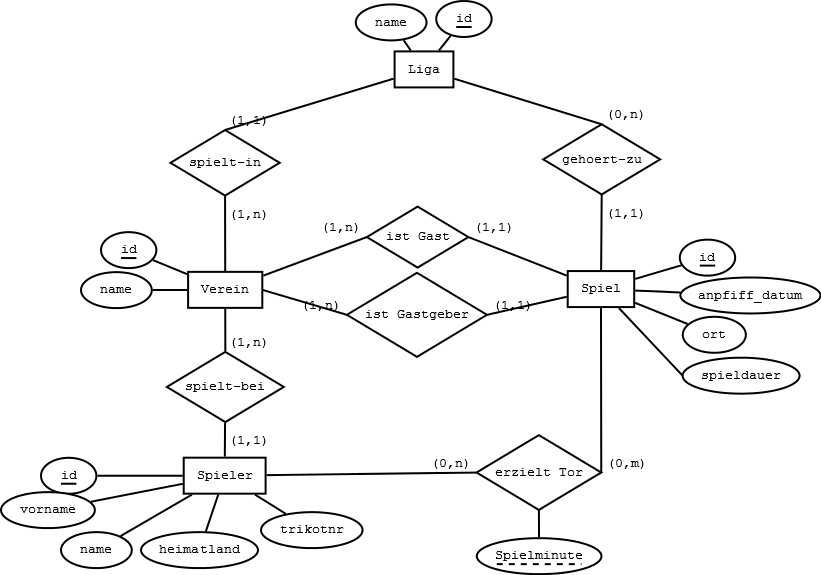
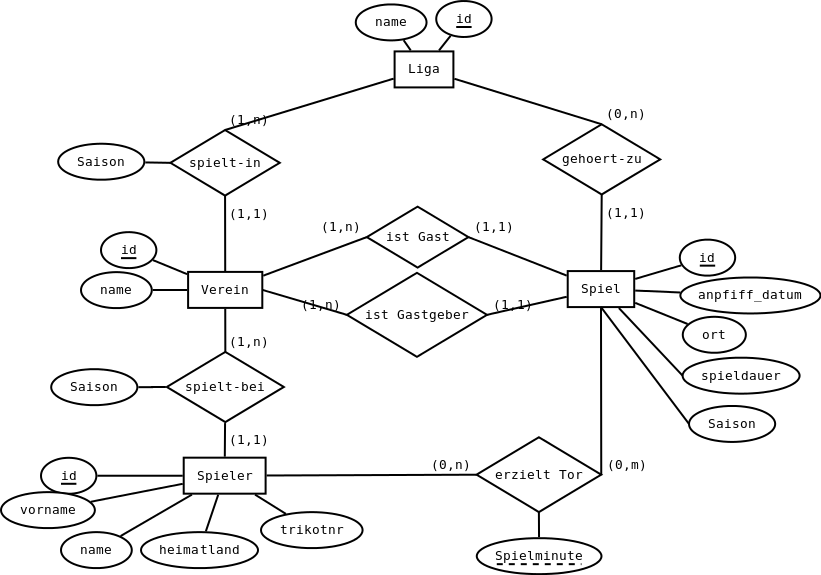
Saison added + relational model created

diff --git a/docs/Relationales_Modell.md b/docs/Relationales_Modell.md
@@ -1,0 +1,36 @@
+#Relationales Modell
+
+Im Folgenden sowohl das vollständige Relationale Modell als auch eine vereinfachte Version zu dem ER-Diagramm.
+
+Entgegen der üblichen Notation mussten wir hier auf das Kennzeichnen der Schlüssel durch Unterstreichen verzichten, stattdessen sind Schlüssel **fett** dargestellt. Fremdschlüssel werden zur Verdeutlichung *kursiv* dargestellt.
+
+##Vollständig
+
+###Entitäten
+* Verein: {[**id**, name]}
+* Spieler: {[**id**, vorname, name, heimatland, trikotnr]}
+* Spiel: {[**id**, anpfiff_datum, ort, spieldauer, saison]}
+* Liga: {[**id**, name]}
+
+###Relationen
+
+* spielt-in: {[***id_verein***, *id_liga*, saison]}
+* spielt-bei: {[***id_spieler***, *id_verein*, saison]}
+* erzielt-Tor {[***id_spieler***, ***id_spiel***, **Spielminute**]}
+* ist Gast: {[***id_spiel***, *id_verein*]}
+* ist Gastgeber: {[***id_spiel***, *id_verein*]}
+* gehört zu: {[***spiel_id***, *id_liga*]}
+
+##Vereinfacht
+
+In dem vereinfachten Modell wurden bereits einige der vereinfachten Beziehungen umbenannt.
+
+###Entitäten
+* Verein: {[**id**, name, *id_liga*, saison]}
+* Spieler: {[**id**, vorname, name, heimatland, trikotnr, *spielt_bei*, saison]}
+* Spiel: {[**id**, anpfiff_datum, ort, spieldauer, saison, *gast*, *gastgeber*, *liga*]}
+* Liga: {[**id**, name]}
+
+###Relationen
+
+* gehört zu: {[***spiel_id***, *id_liga*]}
